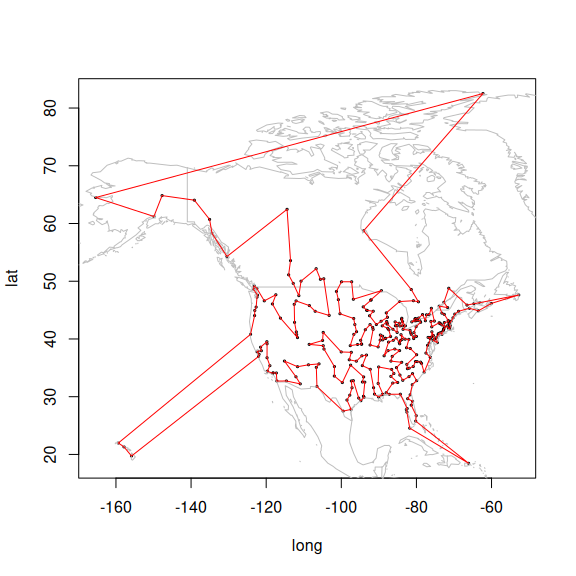
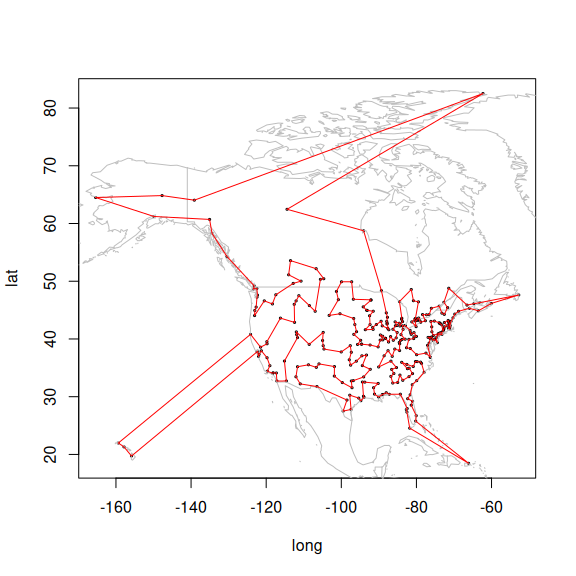
Fixed references using a Pandoc script.

diff --git a/README.md b/README.md
@@ -123,7 +123,7 @@ tour
 
     ## object of class 'TOUR' 
     ## result of method 'arbitrary_insertion+two_opt' for 312 cities
-    ## tour length: 40446
+    ## tour length: 40841
 
 Show the first few cities in the tour.
 
@@ -131,12 +131,12 @@ Show the first few cities in the tour.
 head(tour, n = 10)
 ```
 
-    ##   Youngstown, OH   Pittsburgh, PA Steubenville, OH     Wheeling, WV 
-    ##              310              201              267              297 
-    ##   Zanesville, OH   Charleston, WV      Ashland, KY     Columbus, OH 
-    ##              312               53               11               66 
-    ##  Springfield, OH         Lima, OH 
-    ##              265              149
+    ##     Vancouver, BC Prince Rupert, BC        Juneau, AK    Whitehorse, YK 
+    ##               290               209               131               298 
+    ##     Anchorage, AK          Nome, AK     Fairbanks, AK        Dawson, YT 
+    ##                 8               183                90                70 
+    ##         Alert, NT   Yellowknife, NT 
+    ##                 5               309
 
 Visualize the complete tour.
 
